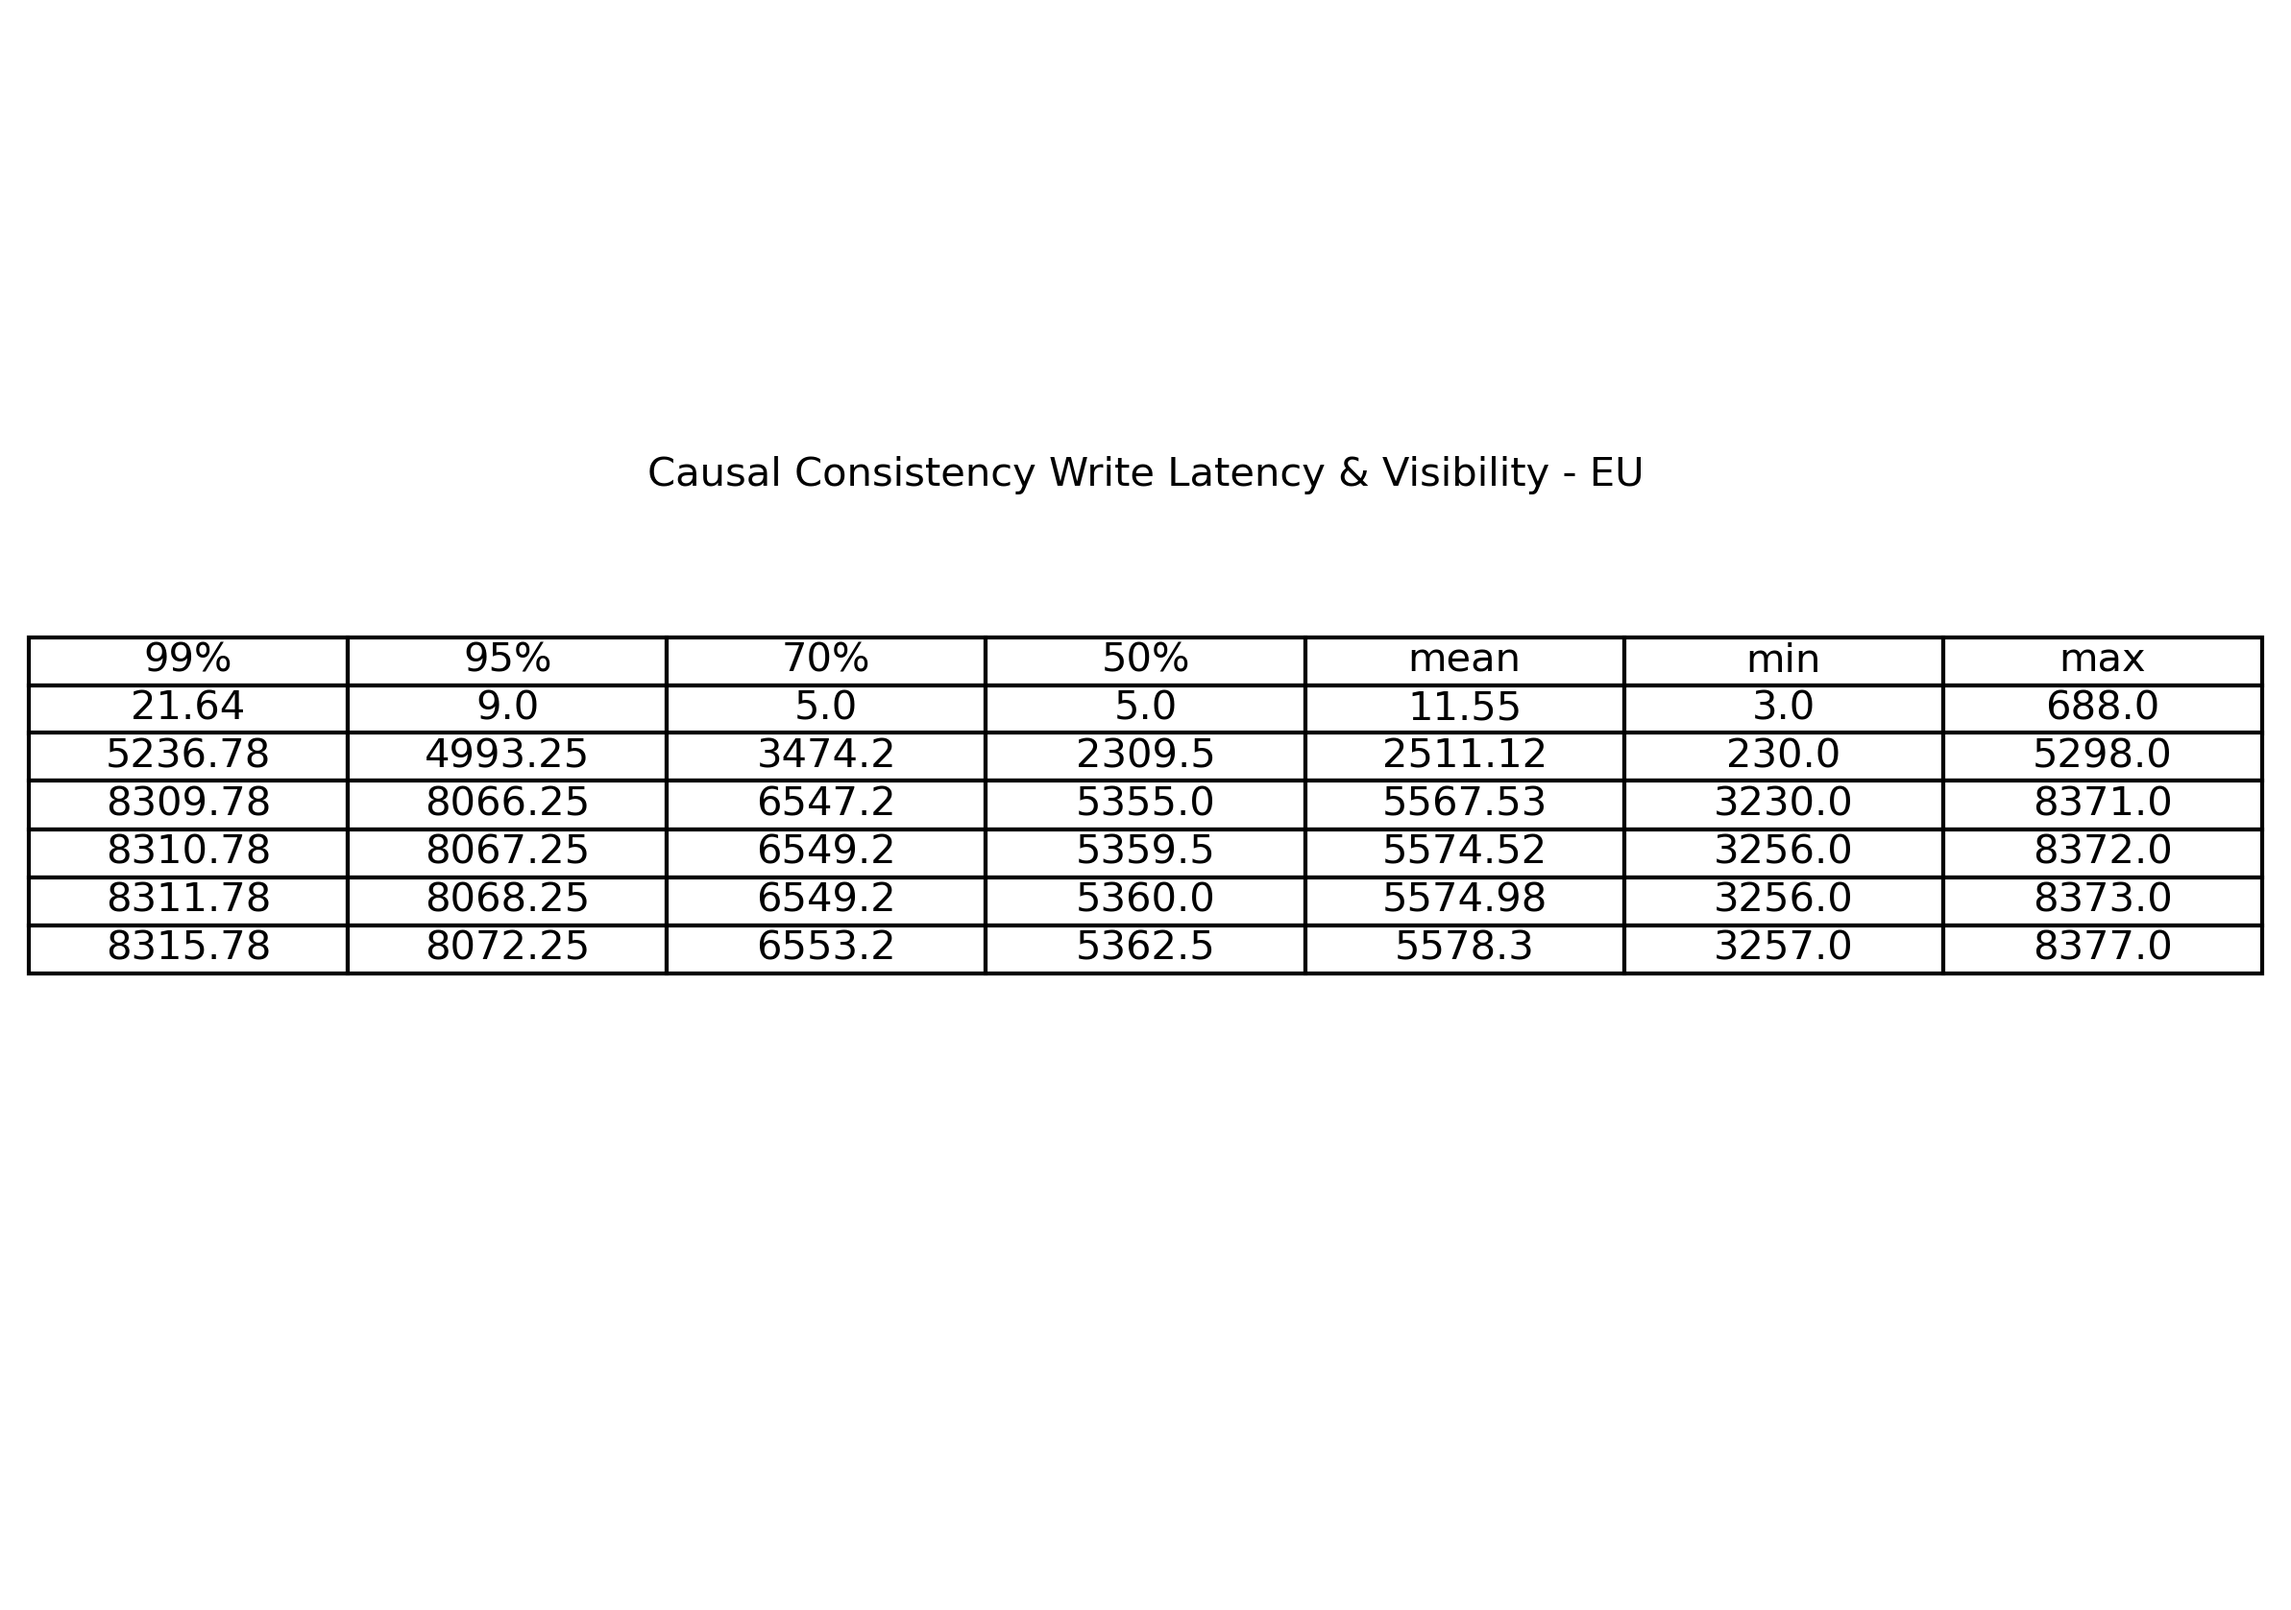
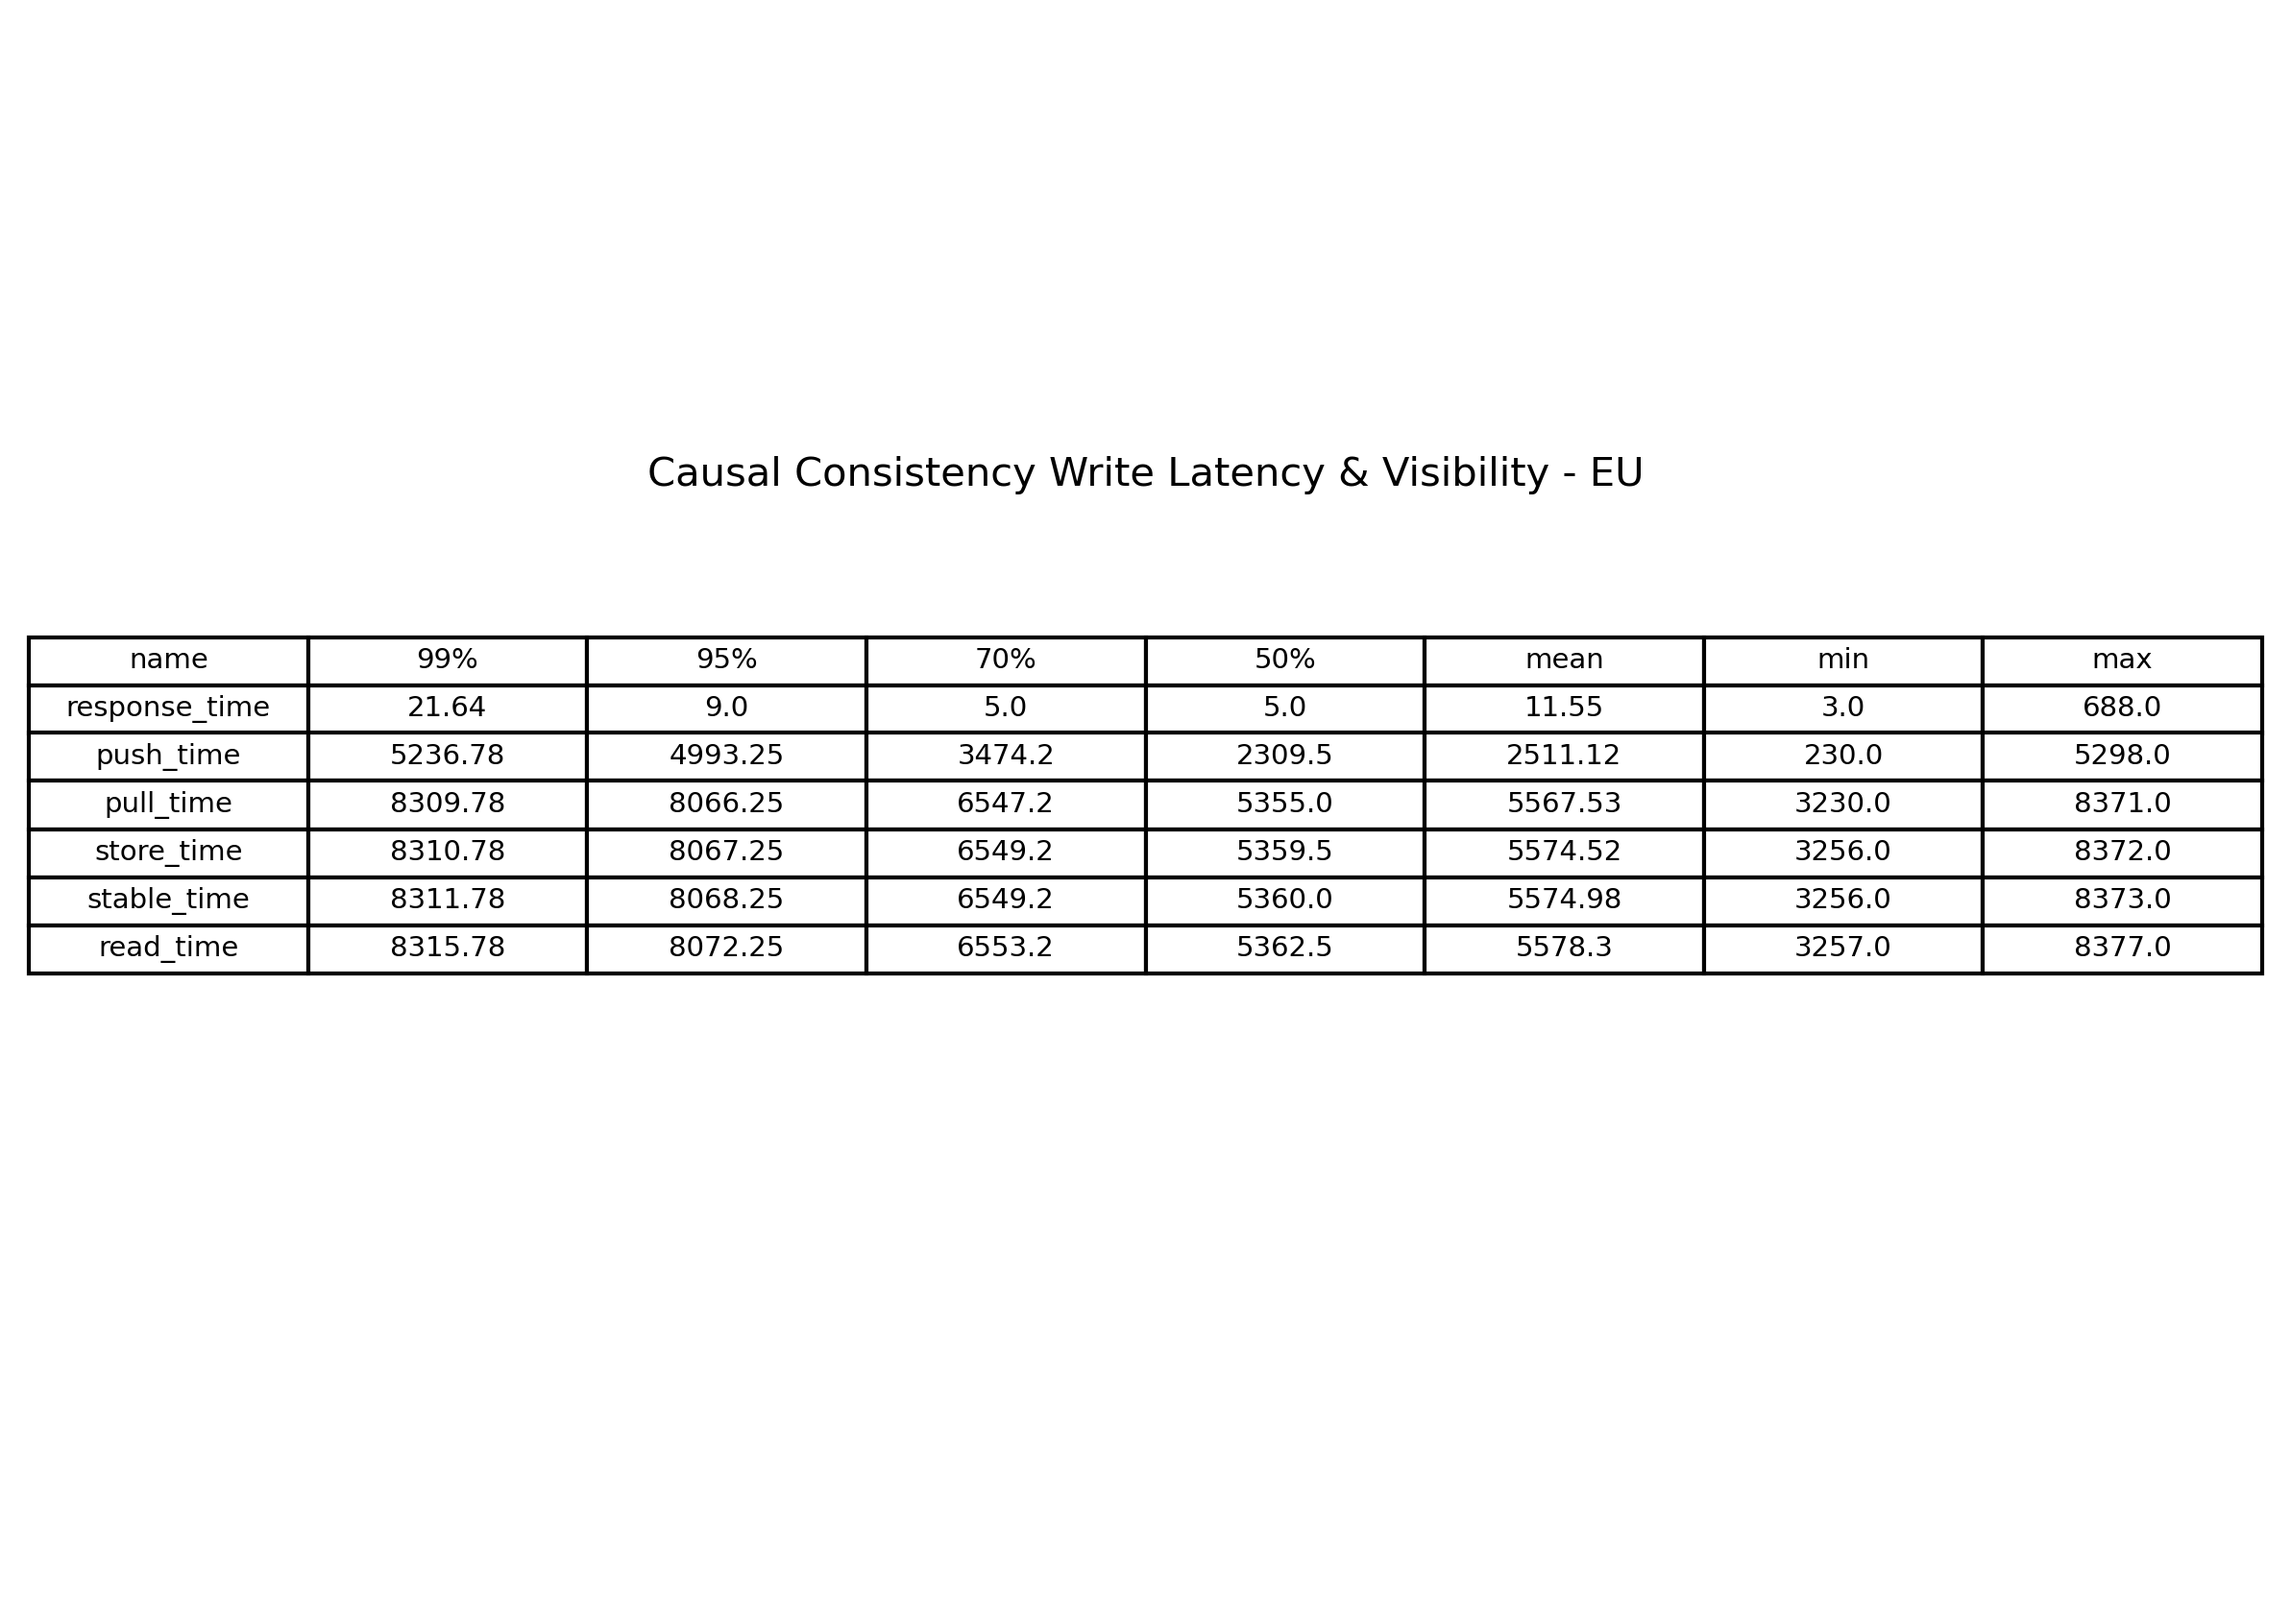
Add visibility histograms and boxplots

Changed region(s): [[0.1862, 0.4031, 0.7136, 0.6202], [0.7447, 0.4031, 0.9618, 0.5891], [0.031, 0.4031, 0.1551, 0.6202]]

diff --git a/validation/visibility_validation.py b/validation/visibility_validation.py
@@ -1,4 +1,6 @@
 import pandas as pd
+import seaborn as sns
+import math
 import matplotlib.pyplot as plt
 from utils import get_data, get_diff
 import os
@@ -148,21 +150,17 @@ def cc_visibility_times(iteration_dir):
 
     return pd_result_eu, pd_result_us
 
-def visibility_tables(df_ev_eu, df_cc_eu, df_ev_us, df_cc_us):
-    # Write Latency & Visibility comparison table
-    df_ev_eu_stats = get_stats(df_ev_eu)
-    df_cc_eu_stats = get_stats(df_cc_eu)
-    df_ev_us_stats = get_stats(df_ev_us)
-    df_cc_us_stats = get_stats(df_cc_us)
-
-    get_table(df_ev_eu_stats, 'Eventual Consistency Write Latency & Visibility - EU', 'write_latency_visibility_ev_eu.png')
-    get_table(df_cc_eu_stats, 'Causal Consistency Write Latency & Visibility - EU', 'write_latency_visibility_cc_eu.png')
-    get_table(df_ev_us_stats, 'Eventual Consistency Write Latency & Visibility - US', 'write_latency_visibility_ev_us.png')
-    get_table(df_cc_us_stats, 'Causal Consistency Write Latency & Visibility - US', 'write_latency_visibility_cc_us.png')
-
 def get_table(df, title, filename):
+    df = df.round(2)
+    df['name'] = df.index
+    columns = list(df.columns)
+    columns.remove('name')
+    new_order = ['name'] + columns
+    df = df[new_order]
+
+    df.reset_index(drop=True, inplace=True)
     plt.annotate(title, (0.5, 0.7), xycoords='axes fraction', ha='center', va='bottom', fontsize=10)
-    plt.table(cellText=df.values.round(2), colLabels=df.columns, loc='center', cellLoc='center')
+    plt.table(cellText=df.values, colLabels=df.columns, loc='center', cellLoc='center')
     plt.axis('off')
     plt.savefig(PATH + '/results/plots/' + filename + '.png', dpi=300, bbox_inches='tight')
     plt.clf()
@@ -183,7 +181,6 @@ def get_time_diff_cc(df_cc):
     df_cc_diff['read_time'] = get_diff(df_cc, 'client_request', 'read_client_response')
     return df_cc_diff
 
-
 def get_stats(df):
     return pd.DataFrame({
         '99%': df.quantile(0.99),
@@ -193,3 +190,115 @@ def get_stats(df):
         'mean': df.mean(),
         'min': df.min(),
         'max': df.max()})
+
+def visibility_tables(df_ev_eu, df_cc_eu, df_ev_us, df_cc_us):
+    # Write Latency & Visibility comparison table
+    df_ev_eu_stats = get_stats(df_ev_eu)
+    df_cc_eu_stats = get_stats(df_cc_eu)
+    df_ev_us_stats = get_stats(df_ev_us)
+    df_cc_us_stats = get_stats(df_cc_us)
+
+    get_table(df_ev_eu_stats, 'Eventual Consistency Write Latency & Visibility - EU', 'write_latency_visibility_ev_eu.png')
+    get_table(df_cc_eu_stats, 'Causal Consistency Write Latency & Visibility - EU', 'write_latency_visibility_cc_eu.png')
+    get_table(df_ev_us_stats, 'Eventual Consistency Write Latency & Visibility - US', 'write_latency_visibility_ev_us.png')
+    get_table(df_cc_us_stats, 'Causal Consistency Write Latency & Visibility - US', 'write_latency_visibility_cc_us.png')
+
+def addPercentiles(df, percentiles, ax):
+    visibility_ev_eu_summary = df['read_time'].describe(percentiles=[p/100 for p in percentiles])
+
+    for p in percentiles:
+        ax.axhline(visibility_ev_eu_summary[f'{p}%'], linestyle='--', color='green', label=f'{p}%')
+
+    ax.axhline(visibility_ev_eu_summary['mean'], linestyle='-', color='blue', label='mean')
+    ax.axhline(visibility_ev_eu_summary['min'], linestyle=':', color='gray', label='min')
+    ax.axhline(visibility_ev_eu_summary['max'], linestyle=':', color='gray', label='max')
+    ax.legend()
+    ax.set_xlabel('')
+
+def visibility_boxplot(df_ev_eu, df_cc_eu, df_ev_us, df_cc_us):
+    percentiles = [50, 70, 95, 99]
+    fig, axs = plt.subplots(nrows=2, ncols=2, figsize=(10, 15))
+
+    min_visibility_eu = math.ceil(min(min(df_ev_eu['read_time']), min(df_cc_eu['read_time'])))
+    min_visibility_us = math.ceil(min(min(df_ev_us['read_time']), min(df_cc_us['read_time'])))
+
+    max_visibility_eu = math.ceil(max(max(df_ev_eu['read_time']), max(df_cc_eu['read_time'])))
+    max_visibility_us = math.ceil(max(max(df_ev_us['read_time']), max(df_cc_us['read_time'])))
+
+    axs[0,0].set_ylim(min_visibility_eu, max_visibility_eu)
+    axs[0,1].set_ylim(min_visibility_eu, max_visibility_eu)
+    axs[1,0].set_ylim(min_visibility_us, max_visibility_us)
+    axs[1,1].set_ylim(min_visibility_us, max_visibility_us)
+
+    df_ev_eu.plot.box(y='read_time', ax=axs[0,0], grid=True)
+    axs[0,0].set_title('Eventually Consistent EU')
+    
+    df_cc_eu.plot.box(y='read_time', ax=axs[0,1], grid=True)
+    axs[0,1].set_title('Causally Consistent EU')
+    
+    df_ev_us.plot.box(y='read_time', ax=axs[1,0], grid=True)
+    axs[1,0].set_title('Eventually Consistent US')
+
+    df_cc_us.plot.box(y='read_time', ax=axs[1,1], grid=True)
+    axs[1,1].set_title('Causally Consistent US')
+
+    addPercentiles(df_ev_eu, percentiles, axs[0,0])
+    addPercentiles(df_cc_eu, percentiles, axs[0,1])
+    addPercentiles(df_ev_us, percentiles, axs[1,0])
+    addPercentiles(df_cc_us, percentiles, axs[1,1])
+
+    fig.suptitle('Visibility Distribution')
+
+    plt.tight_layout()    
+    plt.savefig(PATH + '/results/plots/visibility_boxplot.png', dpi=300)
+    plt.clf()
+    plt.rcParams['figure.figsize'] = plt.rcParamsDefault['figure.figsize']
+
+def stable_time_boxplot(df_eu, df_us):
+    percentiles = [50, 70, 95, 99]
+    fig, axs = plt.subplots(nrows=1, ncols=2, figsize=(10, 8))
+
+    min_stable_time = math.ceil(min(min(df_eu['read_time']), min(df_us['read_time'])))
+    max_stable_time = math.ceil(max(max(df_eu['read_time']), max(df_us['read_time'])))
+
+    axs[0].set_ylim(min_stable_time, max_stable_time)
+    axs[1].set_ylim(min_stable_time, max_stable_time)
+
+    df_eu.plot.box(y='stable_time', ax=axs[0], grid=True)
+    axs[0].set_title('EU')
+
+    df_us.plot.box(y='stable_time', ax=axs[1], grid=True)
+    axs[1].set_title('US')
+
+    addPercentiles(df_eu, percentiles, axs[0])
+    addPercentiles(df_us, percentiles, axs[1])
+
+    plt.savefig(PATH + '/results/plots/stable_time_boxplot.png', dpi=300)
+    plt.clf()
+    plt.rcParams['figure.figsize'] = plt.rcParamsDefault['figure.figsize']
+
+def visibility_histogram(df_ev_eu, df_cc_eu, df_ev_us, df_cc_us):
+    fig, axs = plt.subplots(2, 2, figsize=(10, 15))
+
+    sns.histplot(data=df_ev_eu, x="read_time", kde=True, color="skyblue", ax=axs[0, 0])
+    sns.histplot(data=df_ev_us, x="read_time", kde=True, color="olive", ax=axs[0, 1])
+    sns.histplot(data=df_cc_eu, x="read_time", kde=True, color="gold", ax=axs[1, 0])
+    sns.histplot(data=df_cc_us, x="read_time", kde=True, color="teal", ax=axs[1, 1])
+
+    plt.savefig(PATH + '/results/plots/visibility_histogram.png', dpi=300)
+    plt.clf()
+    plt.rcParams['figure.figsize'] = plt.rcParamsDefault['figure.figsize']
+
+def visibility_histogram_cc(df_cc_eu, df_cc_us):
+    fig, axs = plt.subplots(3, 2, figsize=(20, 10))
+
+    sns.histplot(data=df_cc_eu, x="response_time", kde=True, color="skyblue", ax=axs[0, 0])
+    sns.histplot(data=df_cc_eu, x="push_time", kde=True, color="olive", ax=axs[0, 1])
+    sns.histplot(data=df_cc_eu, x="pull_time", kde=True, color="gold", ax=axs[1, 0])
+    sns.histplot(data=df_cc_eu, x="store_time", kde=True, color="teal", ax=axs[1, 1])
+    sns.histplot(data=df_cc_eu, x="stable_time", kde=True, color="magenta", ax=axs[1, 1])
+    sns.histplot(data=df_cc_us, x="read_time", kde=True, color="red", ax=axs[1, 1])
+
+    plt.savefig(PATH + '/results/plots/visibility_cc_histogram.png', dpi=300)
+    plt.clf()
+    plt.rcParams['figure.figsize'] = plt.rcParamsDefault['figure.figsize']

diff --git a/validation/validation.py b/validation/validation.py
@@ -1,7 +1,8 @@
 import sys
 from latency_validation import latency_times, latency_stats, latency_boxplot, latency_histogram
 from goodput_validation import goodput_times, goodput_stats
-from visibility_validation import ev_visibility_times, cc_visibility_times, get_time_diff_ev, get_time_diff_cc, visibility_tables
+from visibility_validation import ev_visibility_times, cc_visibility_times, get_time_diff_ev, get_time_diff_cc, \
+    visibility_tables, visibility_boxplot, stable_time_boxplot, visibility_histogram, visibility_histogram_cc
 import os
 
 PATH = os.path.dirname(os.path.abspath(__file__))
@@ -36,15 +37,20 @@ def visibility_validation(path_ev, path_cc):
 
     visibility_tables(df_ev_diff_eu, df_cc_diff_eu, df_ev_diff_us, df_cc_diff_us)
 
-    # TODO: Boxplot & density plot with the time it takes for a write to be visible to a read
-    # TODO: visibility_boxplot(df_ev_visibility_eu, df_cc_visibility_eu)
-    # TODO: visibility_boxplot(df_ev_visibility_us, df_cc_visibility_us)
+    # Boxplot with the time it takes for a write to be visible to a read
+    visibility_boxplot(df_ev_diff_eu, df_cc_diff_eu, df_ev_diff_us, df_cc_diff_us)
 
-    # TODO: Boxplot & density plot with the time it takes for a write to be stable
+    # Boxplotwith the time it takes for a write to be stable
+    stable_time_boxplot(df_cc_diff_eu,df_cc_diff_us)
 
     # TODO: Duration of each phase
 
-    # TODO: Distribution of the visibility times (comparison between eu and west for eventual and causal)
+
+    # Distribution of the visibility times (comparison between eu and west for eventual and causal)
+    visibility_histogram(df_ev_diff_eu, df_cc_diff_eu, df_ev_diff_us, df_cc_diff_us)
+
+    # Distribution of the visibility times of each phase
+    visibility_histogram_cc(df_cc_diff_eu, df_cc_diff_us)
 
 if __name__ == '__main__':
     if len(sys.argv) < 2:
